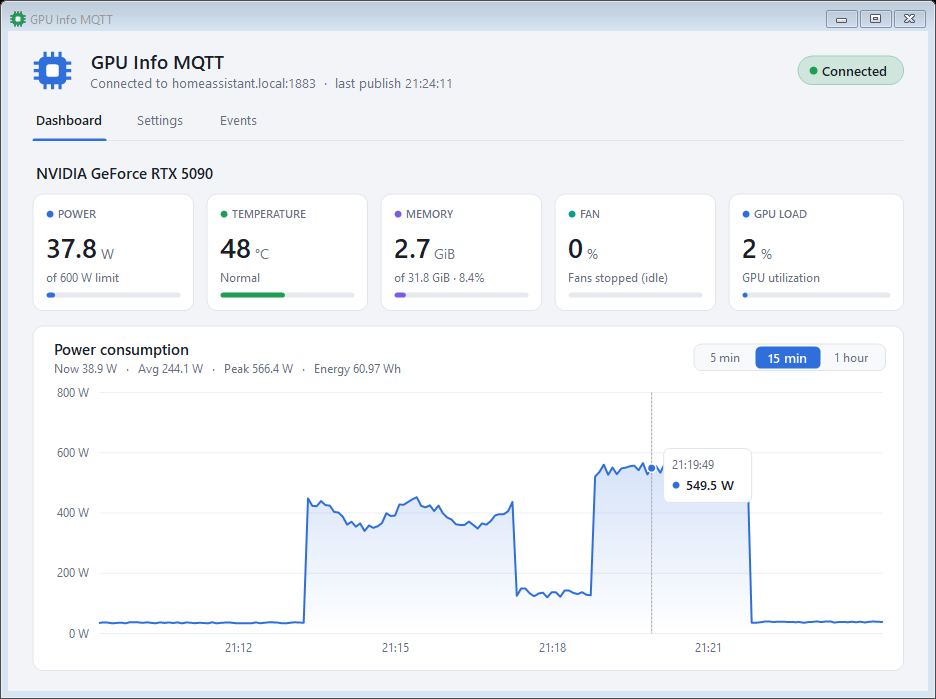
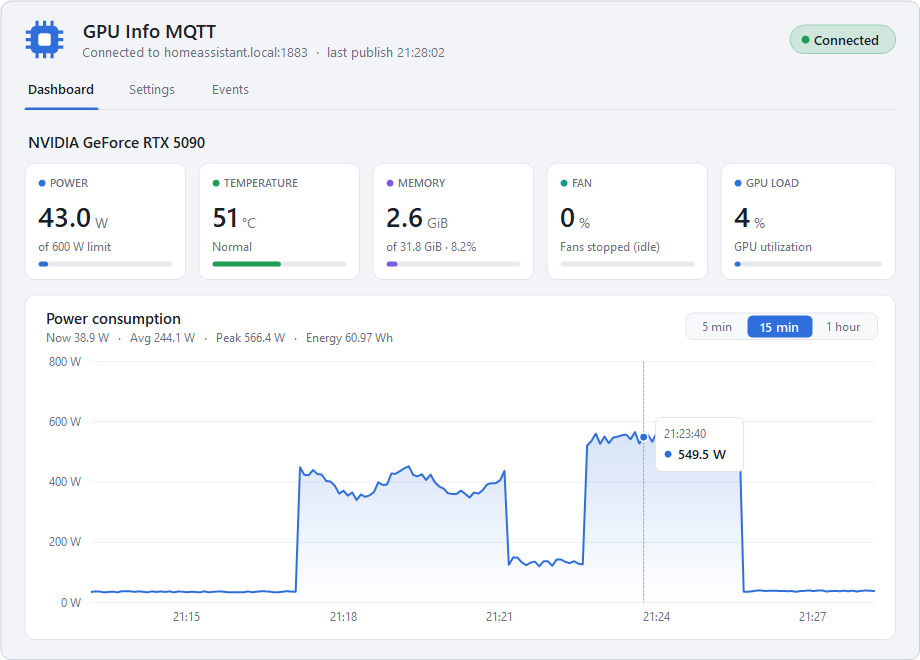
Chart fallback for outdated service; frameless screenshots
- Service reports its version; the tray warns when the installed service
  is too old to provide history and charts live readings instead of
  showing "Collecting data" forever.
- Service version bumped to 1.1.0.
- README screenshots now show only the window content with rounded
  corners (no classic frame / title bar).

diff --git a/src/GpuInfoMqtt.Tray/MainForm.cs b/src/GpuInfoMqtt.Tray/MainForm.cs
@@ -53,6 +53,11 @@ internal sealed class MainForm : Form
     private StatusSnapshot? _last;
     private bool _loaded;
 
+    // Fallback when the service doesn't supply history (older service): build it from live polls.
+    private readonly List<HistoryPoint> _localHistory = [];
+    private HistoryPoint[] _history = [];
+    private bool _serviceOutdated;
+
     public MainForm()
     {
         SuspendLayout();
@@ -391,7 +396,15 @@ internal sealed class MainForm : Form
         _gpuPicker.Visible = names.Length > 1;
 
         RenderGpu();
-        _chart.SetData(s.History ?? [], s.Gpus.Select(g => TrayContext.ShortName(g.Name)).ToArray());
+
+        var now = DateTimeOffset.UtcNow.ToUnixTimeMilliseconds();
+        if (s.Gpus.Length > 0 && (_localHistory.Count == 0 || now - _localHistory[^1].T >= 2000))
+            _localHistory.Add(new HistoryPoint(now, s.Gpus.Select(g => g.Power).ToArray()));
+        _localHistory.RemoveAll(p => p.T < now - 3_600_000);
+
+        _serviceOutdated = s.ServiceVersion is null;
+        _history = s.History is { Length: > 0 } h ? h : [.. _localHistory];
+        _chart.SetData(_history, s.Gpus.Select(g => TrayContext.ShortName(g.Name)).ToArray());
         UpdateChartStats();
 
         var events = s.Events.Select(e => $"{e.Level}|{e.Time.LocalDateTime:HH:mm:ss}|{e.Text}").ToArray();
@@ -434,9 +447,15 @@ internal sealed class MainForm : Form
 
     private void UpdateChartStats()
     {
-        var history = _last?.History ?? [];
+        var history = _history;
         var start = DateTimeOffset.Now.ToUnixTimeMilliseconds() - (long)Ranges[_range.Selected].TotalMilliseconds;
         var pts = history.Where(p => p.T >= start).Select(p => (p.T, W: p.P.Sum(v => v ?? 0))).ToArray();
+        _chartStats.ForeColor = _serviceOutdated ? Theme.Warn : Theme.Muted;
+        if (_serviceOutdated)
+        {
+            _chartStats.Text = "Installed service is outdated: re-run install.ps1 as administrator. Showing data since this window opened.";
+            return;
+        }
         if (pts.Length == 0)
         {
             _chartStats.Text = "Samples every 5 s, kept for 1 hour";

diff --git a/src/GpuInfoMqtt.Service/PipeServer.cs b/src/GpuInfoMqtt.Service/PipeServer.cs
@@ -14,6 +14,7 @@ public sealed class PipeServer(
     : BackgroundService
 {
     private const int MaxInstances = 4;
+    private static readonly string ServiceVersion = typeof(PipeServer).Assembly.GetName().Version?.ToString(3) ?? "?";
 
     protected override async Task ExecuteAsync(CancellationToken stop)
     {
@@ -98,7 +99,7 @@ public sealed class PipeServer(
                 {
                     gpuError = ex.Message;
                 }
-                var snapshot = status.Snapshot(readings, gpuError);
+                var snapshot = status.Snapshot(readings, gpuError) with { ServiceVersion = ServiceVersion };
                 if (request.IncludeHistory) snapshot = snapshot with { History = history.Snapshot() };
                 return new PipeResponse(true, Status: snapshot);
 

diff --git a/src/GpuInfoMqtt.Shared/Contracts.cs b/src/GpuInfoMqtt.Shared/Contracts.cs
@@ -74,7 +74,8 @@ public sealed record StatusSnapshot(
     StatusEvent[] Events,
     GpuReading[] Gpus,
     string? GpuError,
-    HistoryPoint[]? History = null);
+    HistoryPoint[]? History = null,
+    string? ServiceVersion = null);
 
 public static class Commands
 {
